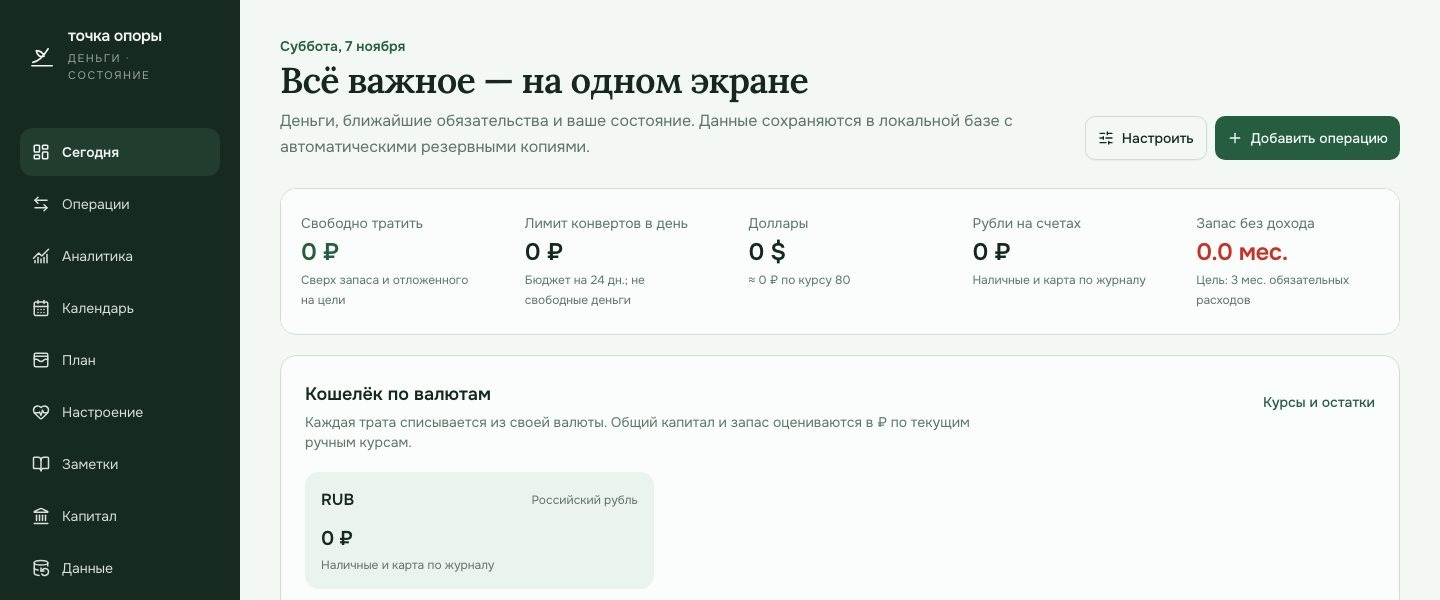
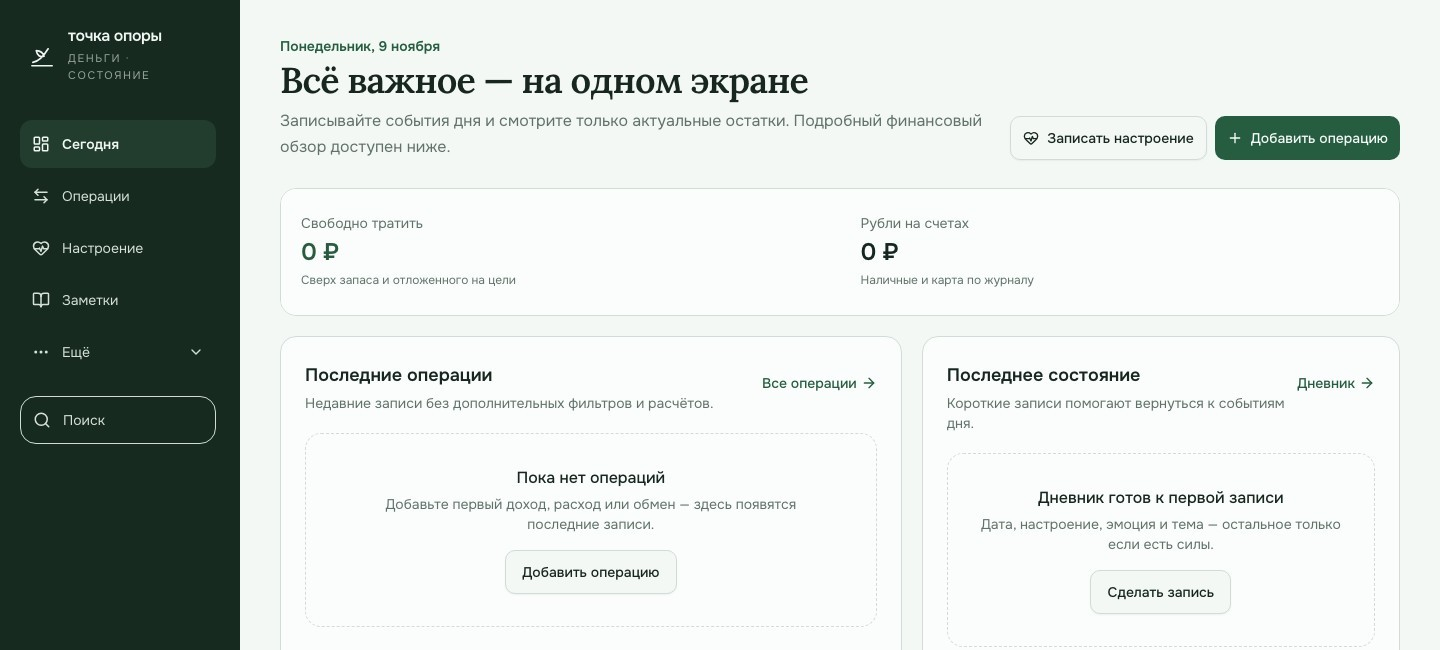
chore(release): 1.3.0

diff --git a/docs/RELEASING.md b/docs/RELEASING.md
@@ -1,0 +1,140 @@
+# Выпуск новой версии
+
+Этот документ — постоянный рабочий процесс релиза «Точки опоры». Его цель: предсказуемые обновления, понятные описания для пользователей и воспроизводимый архив для скачивания.
+
+## 1. Соберите законченный пакет
+
+В релиз включаются проверенные изменения с ясной пользовательской ценностью. Не нужно откладывать публикацию только из-за небольшого объёма кода или выпускать отдельный релиз для каждой промежуточной правки.
+
+Перед выпуском:
+
+- завершите заявленные сценарии и ручную проверку;
+- убедитесь, что нет неучтённых изменений в рабочей копии;
+- синхронизируйте локальный `main` с удалённым;
+- не смешивайте релиз с несвязанной незавершённой работой.
+
+## 2. Выберите номер по SemVer
+
+Для текущей версии `X.Y.Z`:
+
+- `Z` — исправления без новых возможностей;
+- `Y` — новые обратно совместимые возможности и заметные улучшения;
+- `X` — несовместимые изменения, требующие особой миграции.
+
+Номер должен одинаково фигурировать в `package.json`, `package-lock.json`, git-теге и GitHub Release.
+
+```bash
+npm version X.Y.Z --no-git-tag-version
+```
+
+## 3. Обновите CHANGELOG.md
+
+Используйте разделы «Добавлено», «Изменено», «Исправлено», «Удалено» и «Безопасность» только когда они содержат изменения. Описывайте наблюдаемый результат, а не перечисляйте каждый файл.
+
+Добавьте ссылку сравнения с предыдущей версией. Не переносите в changelog рабочие обсуждения, промежуточные ошибки, локальные пути и внутренние идентификаторы задач.
+
+## 4. Подготовьте описание для пользователей
+
+Название: `Точка опоры X.Y.Z — короткая пользовательская выгода`.
+
+Структура описания:
+
+1. Одно вступительное предложение о главной ценности обновления.
+2. Три–пять блоков с понятными заголовками и конкретным результатом.
+3. Важные ограничения новой функции, если они влияют на использование.
+4. Короткий раздел «Как обновиться».
+
+Пишите на языке приложения. Не перегружайте текст коммитами, количеством тестов, названиями компонентов и служебными гарантиями процесса. Технические подробности остаются в changelog и истории git.
+
+## 5. Проверьте изображения
+
+Для заметных интерфейсных изменений подготовьте один–три коротких скриншота:
+
+- показывайте только актуальную версию;
+- используйте обобщённые демонстрационные записи;
+- обрезайте изображение до полезной области;
+- проверьте читаемость текста и отсутствие личных данных;
+- сохраняйте оптимизированные изображения в `docs/images/`.
+
+## 6. Выполните проверки
+
+```bash
+npm run check
+npm run lint
+npm test
+npm run build
+npm run test:browser
+npm run check:performance
+npm run check:windows
+npm run check:public
+git diff --check
+```
+
+Браузерные проверки должны подтверждать изменённые сценарии, мобильную ширину, клавиатуру, отсутствие ошибок консоли и неуспешных ответов. Используйте только изолированные тестовые данные.
+
+## 7. Создайте коммиты и тег
+
+Группируйте изменения по смыслу. Для небольшого согласованного пакета допустим один функциональный коммит; отдельный релизный коммит содержит версию, changelog и выпускающую документацию.
+
+```bash
+git add -A
+git commit -m "chore(release): X.Y.Z"
+git tag -a vX.Y.Z -m "Точка опоры X.Y.Z"
+```
+
+Не используйте `git add -f` для исключённых файлов. Перед коммитом просмотрите `git status --short` и состав индекса.
+
+## 8. Соберите и проверьте архив
+
+Создавайте архив именно из тега, чтобы его содержимое было воспроизводимым:
+
+```bash
+npm run package:release -- vX.Y.Z
+```
+
+Результат:
+
+- `.release/tochka-opory.zip`;
+- `.release/tochka-opory.zip.sha256`.
+
+Имена файлов не меняются между версиями: постоянная ссылка `releases/latest/download/tochka-opory.zip` ведёт на последний релиз.
+
+Распакуйте архив в отдельный временный каталог и выполните в нём чистую установку и проверки:
+
+```bash
+npm ci
+npm run check
+npm run lint
+npm test
+npm run build
+npm run check:public
+```
+
+Для изменений установки или запуска дополнительно проверьте запуск из распакованного архива.
+
+## 9. Опубликуйте
+
+Сначала отправьте ветку и аннотированный тег, затем создайте GitHub Release и приложите ZIP с SHA-256:
+
+```bash
+git push origin main
+git push origin vX.Y.Z
+gh release create vX.Y.Z \
+  .release/tochka-opory.zip \
+  .release/tochka-opory.zip.sha256 \
+  --title "Точка опоры X.Y.Z — короткая пользовательская выгода" \
+  --notes-file <подготовленный-файл-описания>
+```
+
+Не создавайте draft, если пакет уже проверен и релиз согласован. Не используйте prerelease для обычной стабильной версии.
+
+## 10. Проверьте опубликованный результат
+
+- Откройте страницу релиза и проверьте название, текст и изображения.
+- Убедитесь, что тег указывает на релизный коммит.
+- Проверьте наличие ZIP и SHA-256.
+- Скачайте ZIP по постоянной ссылке `releases/latest` и сверьте контрольную сумму.
+- Убедитесь, что ссылка в README ведёт на новую версию.
+- Зафиксируйте фактическую публикацию в локальном рабочем файле, не добавляя его в репозиторий.
+
+Если после публикации обнаружена ошибка, не заменяйте старый тег незаметно. Выпустите исправление следующей версией; исключение — отдельно согласованное аварийное изъятие проблемного релиза.

diff --git a/CHANGELOG.md b/CHANGELOG.md
@@ -1,0 +1,38 @@
+# Журнал изменений
+
+Здесь фиксируются заметные изменения проекта «Точка опоры». Проект использует [Semantic Versioning](https://semver.org/lang/ru/).
+
+## [1.3.0] — 2026-11-09
+
+### Добавлено
+
+- Полное управление сохранёнными представлениями аналитики: создание, выбор, переименование, обновление текущими фильтрами, откат и удаление.
+- Повторное применение активного представления мышью, касанием и клавиатурой.
+- Валидация названий представлений и безопасная обработка ошибок локального хранилища.
+- Браузерные проверки полного жизненного цикла представлений на компьютерной и мобильной ширине.
+
+### Изменено
+
+- Основная навигация сосредоточена на ежедневных разделах; продвинутые инструменты собраны в меню «Ещё».
+- Главная страница упрощена: основные действия, ключевые показатели и последние записи доступны без лишних блоков.
+- Иностранные валюты отображаются на главной только при положительном фактическом остатке.
+- Системные окна и список сохранённых представлений заменены компонентами в едином стиле приложения.
+- Неоднозначное «Нет базы» заменено на «Нет сравнения» с понятным пояснением.
+- Назначение аналитики и конвертов описано проще, без необходимости вводить полную старую историю.
+- Повышен контраст служебных отметок финансового календаря.
+
+### Исправлено
+
+- В журнале сохранён основной поиск по категории, валюте и комментарию; дублирующий фильтр месяца удалён.
+- Открытие формы обмена по прямой ссылке сразу выбирает иностранную валюту.
+- Активное сохранённое представление больше не сбрасывается визуально на общую подсказку.
+
+## [1.2.2] — 2026-11-08
+
+### Изменено
+
+- Публичные формы нового пользователя очищены от персональных начальных значений.
+- Усилены автоматические проверки публикуемого содержимого.
+
+[1.3.0]: https://github.com/gankata/tochka-opory/compare/v1.2.2...v1.3.0
+[1.2.2]: https://github.com/gankata/tochka-opory/releases/tag/v1.2.2

diff --git a/README.md b/README.md
@@ -21,7 +21,7 @@
 | Раздел | Что можно делать |
 | --- | --- |
 | **Деньги** | Учитывать доходы, расходы и валюты, планировать платежи, импортировать CSV/OFX |
-| **Аналитика** | Смотреть динамику по дням, неделям и месяцам, сравнивать категории и периоды |
+| **Аналитика** | Смотреть динамику по дням, неделям и месяцам, сравнивать категории и сохранять представления фильтров |
 | **Настроение** | Вести дневник состояния, эмоций, сна и энергии |
 | **Заметки** | Создавать дерево страниц, вишлисты, изображения и связи `[[между заметками]]` |
 | **Капитал** | Записывать активы и обязательства, отслеживать чистый капитал |

diff --git a/CONTRIBUTING.md b/CONTRIBUTING.md
@@ -39,3 +39,5 @@ npm run package:release -- vX.Y.Z
 - `.release/tochka-opory.zip.sha256` — контрольная сумма для проверки загрузки.
 
 Перед публикацией распакуйте именно этот ZIP и повторно выполните в нём `npm run check:public`. Оба файла прикладываются к GitHub Release. Не переименовывайте ZIP: постоянная ссылка `releases/latest/download/tochka-opory.zip` автоматически направляет пользователей на архив последнего релиза.
+
+Полный процесс выбора версии, подготовки описания, проверок, публикации и контроля результата описан в [docs/RELEASING.md](docs/RELEASING.md).
